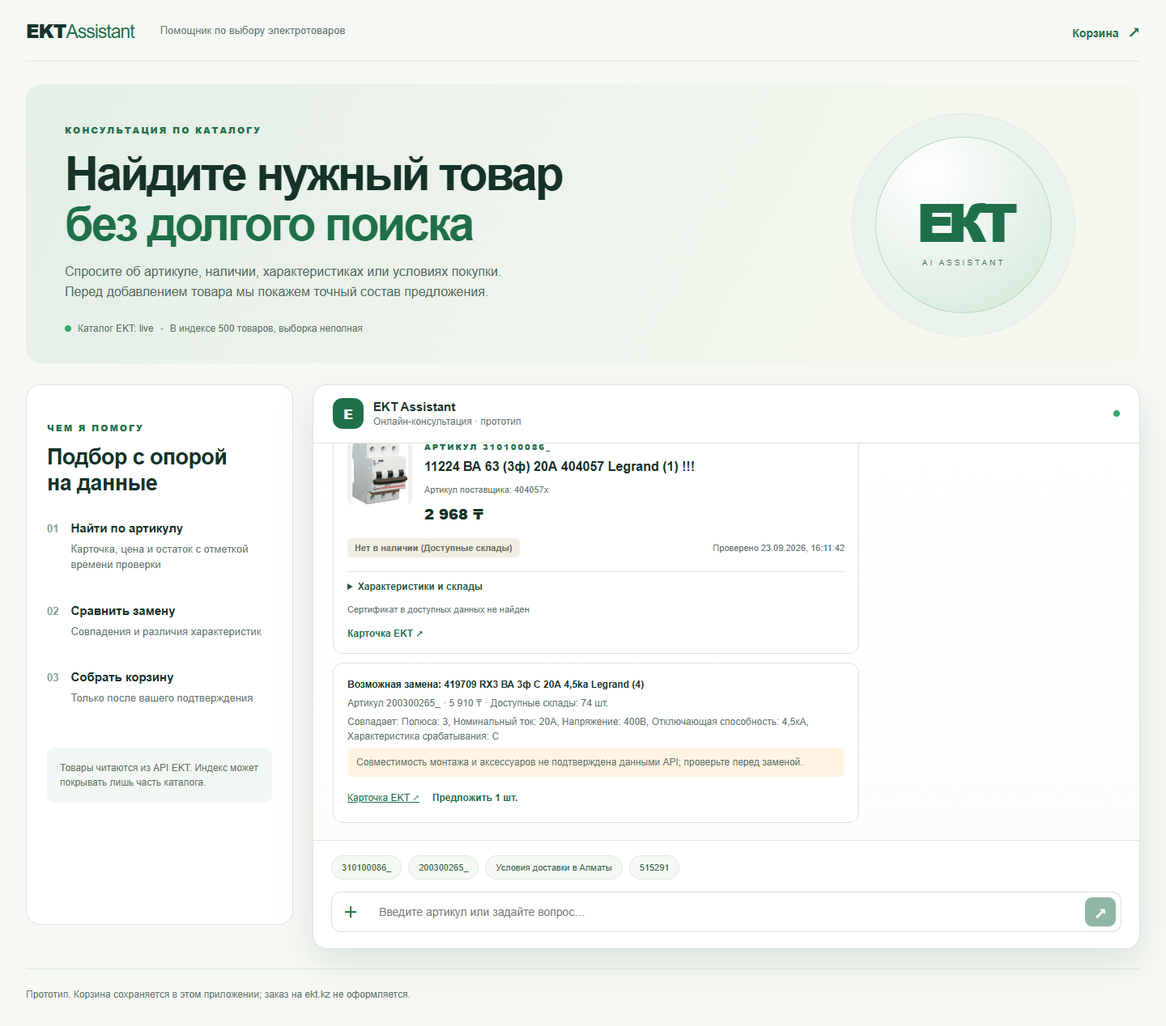
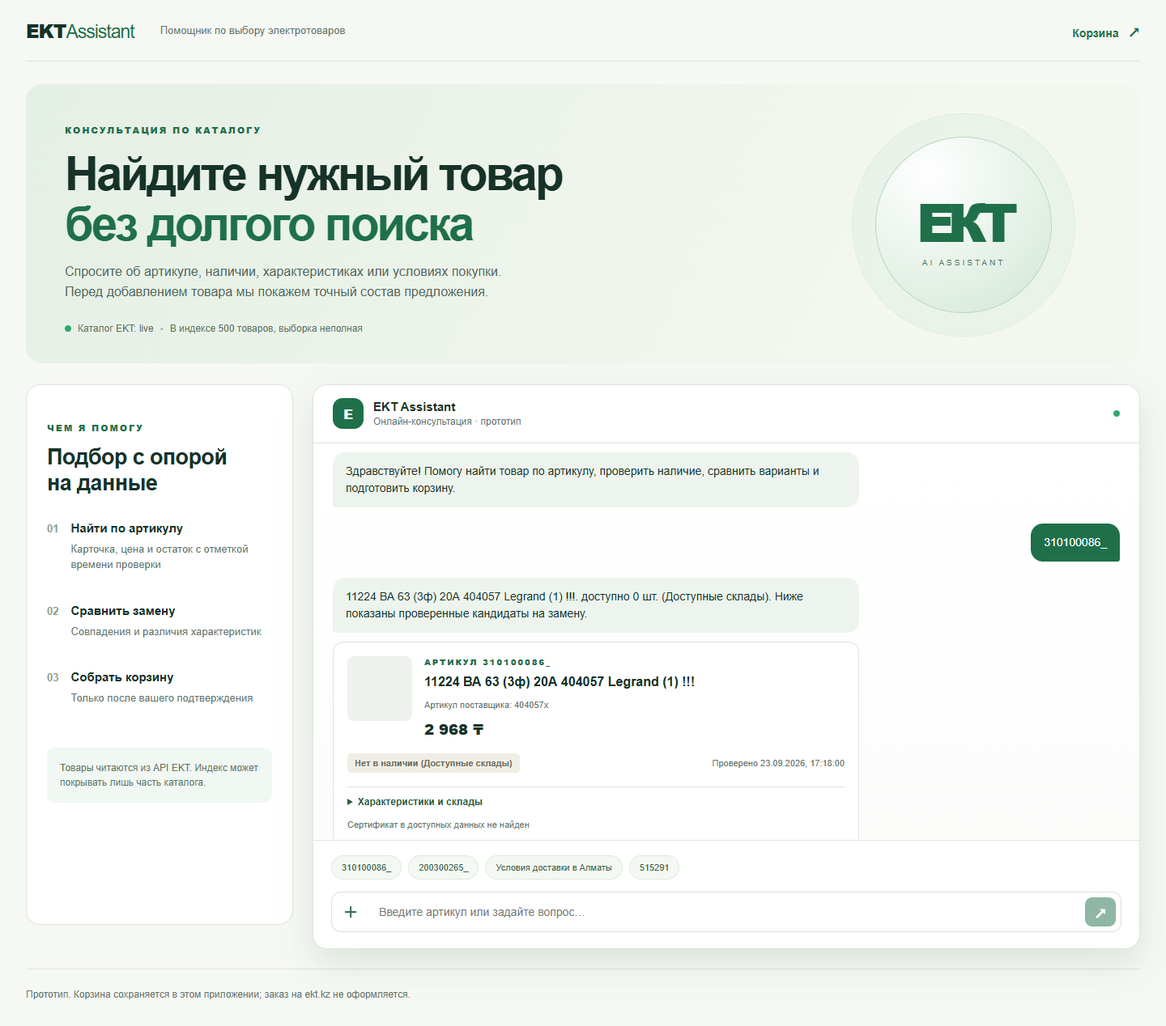
Verify integrated EKT flows and document results

Changed region(s): [[0.2812, 0.4306, 0.75, 0.8304], [0.875, 0.4921, 0.9688, 0.5536], [0.6562, 0.4306, 0.6875, 0.4614]]

diff --git a/tests/uploads.test.ts b/tests/uploads.test.ts
@@ -35,7 +35,7 @@ describe("document extraction", () => {
     const rows = await extractFile("spec.docx", await Packer.toBuffer(document));
     expect(rows[0].article).toBe("DEMO-AV16");
     expect(rows[0].quantity).toBe(3);
-  });
+  }, 15_000);
 
   it("extracts a text PDF", async () => {
     const document = await PDFDocument.create();

diff --git a/README.md b/README.md
@@ -21,7 +21,7 @@ npm run dev
 
 Для реального каталога укажите в локальном `.env` значения `EKT_API_USERNAME`, `EKT_API_PASSWORD`, переключите `DATA_MODE=live`, затем повторите `npm run catalog:sync` и перезапустите приложение. Для AI и распознавания фото/сканов также нужны `OPENAI_API_KEY` и доступное имя модели в `OPENAI_MODEL`. Проверьте интеграции командой `npm run live:check`: она делает запросы к EKT и один настоящий цикл вызова инструмента OpenAI. `npm run analogs:discover` ищет в частичном индексе проверочную пару отсутствующего товара и доступного аналога; отсутствие результата честно сообщает о границе выборки. Проверенное в этом окружении значение `OPENAI_MODEL=gpt-6-sol`: [документация OpenAI](https://developers.openai.com/api/docs/models/gpt-6-sol) подтверждает Responses API, вызовы функций и входные изображения; доступность на другом аккаунте нужно проверить. Секреты отправляются только сервером, `.env` исключён из Git. Подписка Codex не заменяет ключ API. Если ключа модели нет, поиск по артикулу, условия покупки и корзина продолжают работать, а расширенная AI-консультация недоступна.
 
-Альтернативный запуск после заполнения `.env`: `docker compose up --build`. Контейнер индексирует каталог при старте и хранит SQLite в постоянном томе. На машине разработки Docker Engine был недоступен, поэтому контейнерный запуск ещё не проверен.
+Альтернативный запуск после заполнения `.env`: `docker compose up --build`. Конфигурация последовательно синхронизирует каталог перед запуском сервера и хранит SQLite в отдельном томе `/app/storage`, не перекрывая демонстрационные fixtures. Для healthcheck задан стартовый период 10 минут, чтобы дать время синхронизации; его достаточность в контейнере не проверена. Статическая проверка Compose прошла; Docker Engine на машине разработки недоступен. Сборка образа, работа контейнера и сохранность корзины после рестарта пока не проверены.
 
 ## Возможности и границы
 
@@ -39,7 +39,7 @@ npm run dev
 
 Каталог индексируется частично: начальный лимит `CATALOG_MAX_PAGES=25` ограничивает запросы, а не задаёт размер всего ассортимента. В проверке 23.09.2026 загружены 25 страниц и 500 карточек; это не полный каталог. `GET /api/health` показывает фактическое покрытие и режим. Ошибка или повтор страницы не считается доказательством конца каталога. Индекс служит для поиска; карточка и предложение перечитываются из detail. Синхронизация: `npm run catalog:sync`. Список API партнёра: `GET /api/products`, страницы с `?page=N`, `GET /api/products/detail?id=N` по HTTP Basic Auth. Доступ к API корзины, административным методам и поисковому endpoint партнёра не предполагается.
 
-Поддерживаются `.xlsx`, `.xls`, `.docx`, текстовые `.pdf`, `.jpg`/`.jpeg`; скан PDF и фото отправляются модели для извлечения текста при настроенном OpenAI API. Черновик можно исправить в интерфейсе; строки с точным артикулом и целым количеством переводятся в отдельное предложение, которое ещё нужно подтвердить. Старый `.doc` не поддерживается: сохраните его как DOCX или PDF. Качество OCR и обработка сложных таблиц пока не подтверждены на реальных файлах. Лимит файла по умолчанию 10 МБ, извлекается не более 100 строк и 10 страниц PDF.
+Поддерживаются `.xlsx`, `.xls`, `.docx`, текстовые `.pdf`, `.jpg`/`.jpeg`; скан PDF и фото отправляются модели для извлечения текста при настроенном OpenAI API. Каждая строка черновика остаётся видимой: пользователь исправляет артикул, количество и единицу, затем отдельно отмечает её как проверенную. В предложение входят только отмеченные строки с точным сопоставлением, целым положительным количеством и явной единицей «шт»; причины исключения остальных строк и состав предложения показаны до подтверждения. Подготовка предложения не меняет корзину. Старый `.doc` не поддерживается: сохраните его как DOCX или PDF. По умолчанию файл ограничен 10 МБ; превышение 100 строк, 5 листов Excel или 10 страниц PDF отклоняет документ целиком вместо молчаливого обрезания. Три реальных вызова OpenAI OCR успешно обработали синтетические JPEG и растровый PDF, включая неясную маркировку; фото клиента и сложные реальные документы не проверялись.
 
 ## Архитектура
 
@@ -64,13 +64,19 @@ node scripts/smoke-http.mjs # только в demo
 node scripts/check-browser.mjs # только в demo
 ```
 
-Локально пройдены typecheck, lint, 22 теста и production build. В live EKT вернул страницу из 20 товаров и детали; OpenAI `gpt-6-sol` вызвал серверный инструмент в отдельной проверке и в самом приложении. Частичный индекс: 500 товаров. Найдена реальная пара: отсутствующий `18157` (`310100086_`) → доступный `515262` (`200300265_`, 74 шт. при проверке); совпали 3 полюса, 20 А, 400 В, 4,5 кА и характеристика C. Сквозной HTTP-сценарий проверил предложение, отсутствие изменений до согласия, подтверждение, повтор, изоляцию сессий и удаление тестовой позиции. Браузерный сценарий в Edge проверил desktop и 390 px mobile, корзину и refresh. Скриншоты в `docs/`; скрипты браузера используют установленный Microsoft Edge по стандартному Windows-пути. Demo-тесты отдельно проверили XLSX/PDF. Подробная [матрица приёмки](docs/acceptance.md) указывает, какие форматы и внешние сценарии ещё не проверены.
+До параллельных изменений локально прошли typecheck, lint, 22 теста и production build. В live EKT вернул страницу из 20 товаров и детали; OpenAI `gpt-6-sol` вызвал серверный инструмент в отдельной проверке и в самом приложении. Частичный индекс: 500 товаров. Найдена реальная пара: отсутствующий `18157` (`310100086_`) → доступный `515262` (`200300265_`, 74 шт. при проверке); совпали 3 полюса, 20 А, 400 В, 4,5 кА и характеристика C. Сквозной HTTP-сценарий проверил предложение, отсутствие изменений до согласия, подтверждение, повтор, изоляцию сессий и удаление тестовой позиции. Браузерный сценарий в Edge проверил desktop и 390 px mobile, корзину и refresh.
+
+В отдельных ветках после исправлений прошли: core — 86 тестов и demo HTTP; OCR — 48 тестов, production build, desktop/mobile и три реальных вызова OpenAI на синтетических файлах; сертификаты — 58 тестов и ограниченная проверка 23 реальных карточек; Docker — 22 теста, production build и статическая проверка Compose. После объединения выполнены `npm ci`, **148/148 тестов**, lint, typecheck и production build с отдельной demo-БД. Повторный `live:check` получил 20 товаров EKT и detail ID 45357; `gpt-6-sol` выполнил реальный вызов функции. Live health показал 500 проиндексированных товаров и готовность. `smoke:live` снова проверил пару `18157` → `515262` (0 → 74 шт.), чат, предложение, подтверждение, повтор, изоляцию сессий и очистку; `browser:live` прошёл на desktop и 390 px mobile с обновлением корзины. Интегрированный OCR-сценарий на отдельной demo-БД проверил в браузере подтверждение ровно двух вручную отмеченных строк и сохранение корзины после обновления на обоих размерах экрана. Новых платных OCR-вызовов при этом не было. Скриншоты находятся в `docs/`; браузерные скрипты используют установленный Microsoft Edge. Подробная [матрица приёмки](docs/acceptance.md) отделяет эти результаты от непроверенного Docker runtime, реального фото клиента и сертификата конкретного товара.
+
+[Детальный отчёт интеграции](docs/reports/integration.md) фиксирует проверки объединённой версии и их ограничения.
+
 ## Известные ограничения
 
 - Точный подбор аналогов поддерживает только товары с достаточными критичными характеристиками. В неполном live-индексе подходящего товара может не быть.
 - Файлы со сложными таблицами, неоднозначными колонками и OCR требуют ручной проверки; нераспознанные строки остаются видимыми. Старый DOC не поддержан.
 - В подтверждении поддерживаются штучные товары без вариантов (`offers`). Мерные товары и варианты требуют отдельной модели количества и выбора.
-- По текущей выборке не подтверждена реальная ссылка на сертификат конкретного товара; ветка отображения проверена синтетическими данными.
+- В 23 проверенных карточках EKT с подробными данными ссылка на сертификат конкретного товара не подтверждена; отдельный публичный каталог сертификатов не устанавливает применимость документа к позиции. Ветка отображения проверена синтетическими данными.
+- Для одного товара корзина консервативно отклоняет пересекающиеся области остатков (общий остаток, город, склад), когда доступное количество нельзя безопасно распределить; это не резервирование склада EKT.
 - SQLite предполагает один сервер с постоянным диском; горизонтальное serverless-развёртывание не заявлено.
 - Изменение количества в корзине перепроверяет текущую цену и остаток; при изменении данных нужно подготовить новое предложение в чате.
 

diff --git a/docs/acceptance.md b/docs/acceptance.md
@@ -1,20 +1,23 @@
 # Текущее состояние приёмки
 
-Дата: 23.09.2026. Ветка `main`. Live-проверка выполнялась с локальным `.env`; сам файл исключён из Git.
+Дата: 23.09.2026. Ветка `main`. После объединения четырёх веток выполнен повторный live HTTP/browser-прогон с локальным `.env`; сам файл исключён из Git. Результаты платных OCR-вызовов относятся к отдельной OCR-ветке и синтетическим входам.
 
 | Проверка | Состояние | Основание |
 |---|---|---|
-| M1: карточка и наличие | live пройдено | `npm run live:check`: страница EKT из 20 товаров и detail; индекс 25 страниц, 500 карточек. Цена, остаток и время перечитываются из API. |
-| M2: доступный аналог отсутствующего товара | live пройдено с оговоркой | `18157` (`310100086_`), 0 шт. → `515262` (`200300265_`), 74 шт. на 23.09.2026 11:06 UTC. Совпали 3 полюса, 20 А, 400 В, 4,5 кА и характеристика C. Монтажная совместимость и аксессуары не подтверждены API. |
+| M1: карточка и наличие | live пройдено после интеграции | `npm run live:check`: страница EKT из 20 товаров и detail ID 45357; live health: 500 карточек и готовность. Цена, остаток и время перечитываются из API. |
+| M2: доступный аналог отсутствующего товара | live пройдено после интеграции с оговоркой | `npm run smoke:live`: `18157` (`310100086_`), 0 шт. → `515262` (`200300265_`), 74 шт. Совпали 3 полюса, 20 А, 400 В, 4,5 кА и характеристика C. Монтажная совместимость и аксессуары не подтверждены API. |
 | M3: условия покупки | пройдено по официальной странице | [Полезная информация EKT](https://ekt.kz/about/information/), проверено 23.09.2026; минимальная партия неизвестна. |
-| M4: подтверждаемое добавление | live HTTP и браузер пройдены | Корзина пуста до согласия; после подтверждения позиция сохранена. Повтор не дублирует, другая сессия не видит товар. Тестовая позиция удалена. |
-| M5: ссылка на корзину | live браузер пройден | `/cart` показывает позицию той же сессии после refresh. |
-| OpenAI Responses | live пройдено | `gpt-6-sol` выполнил цикл вызова `get_product_details`; инструмент корзины вызван также через чат приложения. |
-| XLSX/XLS, DOCX, текстовый PDF | demo-тесты пройдены | Синтетические документы; XLSX и PDF дополнительно прошли HTTP-сценарий. |
-| JPEG и скан PDF | функция реализована; live OCR не проверен | Реальные файлы для проверки не предоставлены. |
-| Сертификат реального товара | не подтверждён | В проверенной паре ссылки на сертификат не найдено; ветка UI проверена fixture-ом. |
-| Docker Compose | не проверен | Docker Engine недоступен на рабочей машине. |
+| M4: подтверждаемое добавление | live HTTP и браузер пройдены после интеграции | Корзина пуста до согласия; после подтверждения позиция сохранена. Повтор не дублирует, другая сессия не видит товар. Тестовая позиция удалена. |
+| M5: ссылка на корзину | live браузер пройден после интеграции | `/cart` показывает позицию той же сессии после refresh на desktop и 390 px mobile. |
+| OpenAI Responses | live пройдено после интеграции | `gpt-6-sol` выполнил реальный цикл вызова функции в `live:check`; live `smoke:live` также прошёл AI/chat-сценарий приложения. |
+| Core: подтверждение, остатки, AI | проверки ветки пройдены | [Отчёт core](reports/core.md): 86 тестов, lint, typecheck и HTTP на порту 3004 с demo-каталогом. Повтор confirm читает текущую корзину; пересечения общего, городского и складского остатков отклоняются консервативно. Реальные EKT/OpenAI в этой роли не вызывались. |
+| XLSX/XLS, DOCX, текстовый PDF | demo-проверки пройдены | Синтетические документы и регрессии; XLSX и PDF дополнительно прошли HTTP-сценарий. Строки требуют явной проверки, единицы «шт», причины исключения видимы; превышение лимитов отклоняет документ целиком. |
+| JPEG и скан PDF | три реальных OCR-вызова на синтетических входах пройдены | [Отчёт OCR](reports/ocr.md): `specification.jpg` и растровый `scan.pdf` дали ожидаемые два артикула и количества, `unclear.jpg` вернул строку уточнения без догадки. Каталог при сопоставлении был demo. 48 тестов прошли в ветке OCR; после интеграции браузерный demo-сценарий на отдельной БД подтвердил ровно две вручную отмеченные строки и корзину после refresh на desktop/mobile. Новых платных OCR-вызовов не было. |
+| Реальное фото клиента | не проверено | Пользовательский файл не предоставлен; синтетические JPEG/PDF через настоящий OpenAI API не заменяют эту проверку. Защищённый PDF проверен только через mock. |
+| Сертификат реального товара | не подтверждён | [Отчёт сертификатов](reports/certificates.md): 23 уникальные реальные detail-карточки без связанной ссылки; публичный каталог документов не доказал применимость к товару. Парсер прошёл 58 тестов; UI проверен синтетическими данными. |
+| Docker Compose | статическая конфигурация пройдена, запуск ожидается | [Отчёт Docker](reports/docker.md): порт 3002, проект `ekt-docker-worker`, отдельный том и `config --quiet` проверены. После интеграционного просмотра стартовый период healthcheck увеличен до 10 минут для длительной live-синхронизации; это только изменение конфигурации. 3 теста supervisor прошли, 2 POSIX-теста пропущены на Windows. Engine недоступен; build образа, Linux runtime, healthcheck и сохранность корзины после рестарта не проверены. |
+| Итоговая интеграция четырёх веток | пройдены проверки приложения | После `npm ci`: 148/148 тестов, lint, typecheck, production build с отдельной demo-БД, `live:check`, `smoke:live`, `browser:live` и браузерный OCR demo. Контейнерная приёмка остаётся открытой из-за недоступного Docker Engine. |
 
-Проверки: `npm run typecheck`, `npm run lint`, `npm test` (22 теста), `npm run build`, `npm run live:check`, `npm run catalog:sync`, `npm run analogs:discover`, `npm run smoke:live`, `npm run browser:live`. Последние две команды требуют запущенного live-сервера на `http://localhost:3000`; браузерная проверка использует установленный Microsoft Edge. Скриншоты: `screenshot-live-desktop.png` и `screenshot-live-mobile.png`. Демо-проверки запускаются отдельно при `DATA_MODE=demo`.
+После объединения выполнены `npm ci`, `npm test` (148 тестов), `npm run lint`, `npm run typecheck`, `npm run build` с изолированной demo-БД, `npm run live:check`, `npm run smoke:live`, `npm run browser:live` и `node scripts/check-ocr-live.mjs --browser` с отдельной demo-БД. Live HTTP/browser-команды требуют запущенного сервера на `http://localhost:3000`; браузерная проверка использует установленный Microsoft Edge. Скриншоты live-прохода: `screenshot-live-desktop.png` и `screenshot-live-mobile.png`. Ранее также выполнялись `npm run catalog:sync` и `npm run analogs:discover`; индекс из 500 карточек неполный.
 
 Остатки и цены могут измениться. Перед демонстрацией перечитайте карточки или запустите проверочные команды заново. Индекс из 500 товаров неполный; отсутствие кандидата в нём не доказывает отсутствие товара в магазине. Корзина приложения собственная: заказ, резерв и запись товаров на ekt.kz не выполняются.

diff --git a/docs/demo.md b/docs/demo.md
@@ -1,6 +1,6 @@
 # Сценарий демонстрации
 
-## Live: фактическая проверка 23.09.2026
+## Live: фактическая проверка 23.09.2026 после объединения веток
 
 1. В локальном `.env` задайте EKT/OpenAI-секреты, `OPENAI_MODEL=gpt-6-sol`, `DATA_MODE=live`. Запустите `npm run catalog:sync`, затем `npm run dev`. Проверьте `/api/health`: режим `live`, число проиндексированных товаров и готовность.
 2. В чате введите `310100086_`. Карточка EKT `18157` показала нулевой остаток. Под ней найден кандидат `515262` (`200300265_`): при проверке было 74 шт. Совпали 3 полюса, 20 А, 400 В, 4,5 кА, характеристика C. Покажите предупреждение о непроверенной монтажной совместимости и ссылки на обе карточки EKT.
@@ -9,10 +9,18 @@
 5. Повторный запрос подтверждения не дублирует количество. Запрос сверх актуального остатка отклоняется сервером. Для автоматической проверки используйте `npm run smoke:live` и `npm run browser:live`.
 6. При необходимости покажите расхождение у `515291`: название говорит 160 А, свойство API — 250 А. Такая карточка не считается подтверждённой заменой.
 
-Перед защитой запустите `npm run live:check` и `npm run analogs:discover`: цены, остатки и даже выбранная пара могут измениться. Частичный индекс не описывает весь ассортимент. Скриншоты предыдущего live-прохода находятся в `screenshot-live-desktop.png` и `screenshot-live-mobile.png`.
+После объединения веток прошли `npm run live:check`, `npm run smoke:live` и `npm run browser:live`: EKT вернул страницу из 20 товаров и detail ID 45357, health показал 500 карточек и готовность, пара `18157` → `515262` снова имела остатки 0 → 74 шт. OpenAI `gpt-6-sol` выполнил реальный вызов функции; браузерный сценарий прошёл на desktop и 390 px mobile с обновлением корзины. Перед защитой повторите `npm run live:check` и `npm run analogs:discover`: цены, остатки и даже выбранная пара могут измениться. Частичный индекс не описывает весь ассортимент. Скриншоты live-прохода находятся в `screenshot-live-desktop.png` и `screenshot-live-mobile.png`. Ссылку на сертификат для выбранной пары не обещайте: ограниченная проверка 23 реальных карточек не подтвердила применимый документ.
 
 ## Demo без внешних ключей
 
 При `DATA_MODE=demo` используйте `DEMO-AV16-OLD` → `DEMO-AV16`. После предложения и подтверждения проверьте `/cart`. Синтетические цены и остатки не относятся к магазину. Демо-проверки: `node scripts/smoke-http.mjs` и `node scripts/check-browser.mjs`.
+
+## Demo загрузки спецификации
+
+1. В новой cookie-сессии с пустой корзиной и `DATA_MODE=demo` загрузите [review.xlsx](../tests/fixtures/ocr/review.xlsx). Это синтетический файл.
+2. Покажите три строки черновика. У первой `DEMO-AV16 / 2 / шт`; отметьте её «Проверено». У второй `DEMO-AV25` заполните количество `1` и единицу `шт`, затем отметьте «Проверено». Третья строка с неизвестным артикулом и `упак` остаётся видимой, но исключённой.
+3. Покажите сводку «2 из 3» и пустую корзину. Нажмите «Подготовить предложение из проверенных строк», проверьте состав и снова покажите, что корзина не изменилась до отдельного подтверждения. Только после явного согласия подтвердите добавление и откройте `/cart`.
+
+В ветке OCR три вызова настоящего OpenAI API на синтетических `specification.jpg`, растровом `scan.pdf` и неясном `unclear.jpg` прошли; фото клиента не проверялось. Не представляйте эти файлы как реальные документы покупателя. После интеграции браузерный demo-сценарий с отдельной БД подтвердил на desktop и mobile ровно две отмеченные строки, отдельное подтверждение добавления и сохранение корзины после refresh. Новых платных OCR-вызовов не было. Docker Compose прошёл статическую проверку, но контейнерный показ требует доступного Docker Engine и проверки сборки/запуска.
 
 На защите прямо сообщите: каталог в live читается из API партнёра; корзина прототипа собственная, так как API корзины не выдан. Приложение не резервирует товар и не оформляет заказ на ekt.kz.

diff --git a/docs/reports/integration.md b/docs/reports/integration.md
@@ -1,0 +1,26 @@
+# Итоговая интеграция EKT
+
+Дата: 23.09.2026. Общая база четырёх ролей: `a787aaae885e6b45e8203ac09c9d67692b5388c7`. В `main` выполнены обычные merge в порядке core → OCR → certificates → Docker. Источники: `833f142d94a0b5afcd5cd15cadb907ad98f75870`, `063011838ea136d4e5414ef637c9aaa45cb12527`, `b937068787ca2db0ec592502c111d50a6ed7a3f0`, `336a94040b46da8a574a6e860059f951b1ae5f6c`. Рабочие ветки не переписывались.
+
+## Проверки объединённой версии
+
+| Проверка | Фактический результат |
+| --- | --- |
+| `npm ci` | Прошло после точечной остановки старого Next dev процесса основного worktree, который удерживал SWC. Установлено 465 пакетов по lock-файлу. |
+| `npm test` | 148 из 148 тестов, 11 файлов, после чистой установки. Один более ранний холодный прогон после merge core превысил стандартные 5 секунд в DOCX-тесте; отдельный и следующий полный прогоны прошли. Для этой операции установлен явный лимит 15 секунд. |
+| `npm run lint`, `npm run typecheck` | Прошли. |
+| `npm run build` | Прошёл: 10 статических страниц. Использована отдельная demo-БД `data/integration-build.sqlite`, чтобы не переключить режим основной SQLite. |
+| `npm run live:check` | Реальный EKT API: страница из 20 товаров и detail `45357`. Реальный OpenAI Responses `gpt-6-sol`: вызов `get_product_details` и принятие результата. |
+| `GET /api/health` | Production-сервер на 3000: `live`, 500 товаров в частичном индексе, `ready=true`, AI настроен. |
+| `npm run smoke:live` | Реальный EKT `18157` без остатка → `515262` с 74 шт. на момент проверки. Проверены AI-инструмент приложения, поиск, чат, подготовка, пустая корзина до согласия, подтверждение, повтор без дублирования, изоляция сессий и удаление тестовой позиции. |
+| `npm run browser:live` | Microsoft Edge: desktop 1440 px и mobile 390 px, аналог, подтверждение, корзина и обновление страницы. Итоговые скриншоты в `docs/screenshot-live-*.png`. |
+| `node scripts/check-ocr-live.mjs --browser` | Отдельный production-сервер на 3001 с demo-БД из четырёх синтетических товаров. Проверены ошибки загрузки, повторная загрузка, ручная правка и отметка строк, исключения, пустая корзина до согласия, подтверждение ровно двух строк и сохранение корзины после refresh на desktop/mobile. Этот прогон не обращался к OpenAI. |
+| `node --test scripts/docker/check-start.mjs` | 3 теста прошли, 2 POSIX-теста пропущены на Windows. Compose config подтвердил порт 3002, проект `ekt-docker-worker`, том `ekt-docker-worker_ekt_data` и путь `/app/storage/app.sqlite`. |
+
+Три настоящих OpenAI OCR-вызова на **синтетических** JPEG/PDF были выполнены ранее в ветке OCR и описаны в [отчёте OCR](ocr.md). Координатор не повторял платные OCR-вызовы. Фото клиента и защищённый PDF через реальный API не проверены.
+
+В ограниченной проверке [ветки сертификатов](certificates.md) 23 реальные карточки EKT не дали подтверждённой ссылки на сертификат конкретного товара. Публичный каталог сертификатов не доказывает применимость документа к проверенной позиции.
+
+Docker Engine на этой машине по-прежнему недоступен. Конфигурация и локальный build Next проверены, но Docker image build, Linux runtime, HTTP healthcheck и сохранность корзины после рестарта **не проверены**. Стартовый период healthcheck увеличен до 10 минут после статического анализа длительности live-синхронизации; эту настройку также нужно проверить с Engine. Не применять `down -v` к существующему тому.
+
+Основной `.env` не включён в Git; основная SQLite не переключалась в demo. Скриншоты и JSON-артефакты не содержат ключей доступа. Остатки и цены являются наблюдением на дату проверки и должны перечитываться перед показом.
